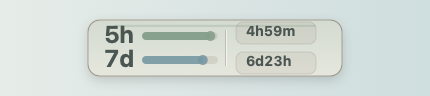
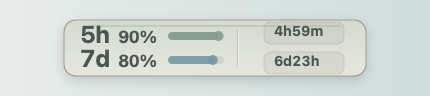
Restore compact menu bar data

diff --git a/native/CodexGauge.swift b/native/CodexGauge.swift
@@ -1799,12 +1799,12 @@ private final class CodexGaugeApp: NSObject, NSApplicationDelegate {
     private let watchRefreshInterval: TimeInterval = 3 * 60
     private let criticalRefreshInterval: TimeInterval = 2 * 60
     private let tenMinuteRefreshInterval: TimeInterval = 10 * 60
-    private let statusItemWidth: CGFloat = 104
-    private let statusImageSize = NSSize(width: 98, height: 22)
-    private let menuBarUsagePercentRect = NSRect(x: 6, y: 3, width: 46, height: 16)
-    private let menuBarRefreshCountdownRect = NSRect(x: 58, y: 2.2, width: 34, height: 17.6)
+    private let statusItemWidth: CGFloat = 116
+    private let statusImageSize = NSSize(width: 110, height: 22)
+    private let menuBarUsagePercentRect = NSRect(x: 5, y: 3, width: 58, height: 16)
+    private let menuBarRefreshCountdownRect = NSRect(x: 68, y: 2.2, width: 36, height: 17.6)
     private let signalPopoverSize = NSSize(width: 560, height: 560)
-    private let quotaRailWidth: CGFloat = 30
+    private let quotaRailWidth: CGFloat = 21
     private let signalRailSegments = 10
     private let codexCliBundlePath = "/Applications/Codex.app/Contents/Resources/codex"
     private let normalQuotaColor = NSColor(calibratedRed: 0.58, green: 1.00, blue: 0.89, alpha: 0.95)
@@ -3730,7 +3730,7 @@ private final class CodexGaugeApp: NSObject, NSApplicationDelegate {
 
     private func drawMenuBarChrome(source: String?, nonLiveMode: Bool, palette: GaugePalette) {
         drawMenuBarMinimalMorandiPill(source: source, nonLiveMode: nonLiveMode, palette: palette)
-        for x in [54] as [CGFloat] {
+        for x in [64] as [CGFloat] {
             drawMenuBarMorandiDivider(x: x, palette: palette)
         }
     }
@@ -3904,8 +3904,22 @@ private final class CodexGaugeApp: NSObject, NSApplicationDelegate {
         ]
         (window as NSString).draw(at: NSPoint(x: menuBarUsagePercentRect.minX, y: y - 3.0), withAttributes: windowAttrs)
 
-        let railRect = NSRect(x: menuBarUsagePercentRect.minX + 15, y: y, width: quotaRailWidth, height: 3.4)
+        let percentText = compactMenuBarPercentText(value)
+        let valueAttrs: [NSAttributedString.Key: Any] = [
+            .font: NSFont.monospacedDigitSystemFont(ofSize: percentText.count > 2 ? 5.0 : 5.5, weight: .bold),
+            .foregroundColor: value == nil ? palette.mutedText : palette.primaryText,
+        ]
+        (percentText as NSString).draw(at: NSPoint(x: menuBarUsagePercentRect.minX + 16, y: y - 2.6), withAttributes: valueAttrs)
+
+        let railRect = NSRect(x: menuBarUsagePercentRect.minX + 37, y: y, width: quotaRailWidth, height: 3.4)
         drawMenuBarUsagePercentBar(value: value, rect: railRect, palette: palette, fillColor: menuBarQuotaColor(value, palette: palette))
+    }
+
+    private func compactMenuBarPercentText(_ value: Int?) -> String {
+        guard let value else {
+            return "--"
+        }
+        return "\(max(0, min(100, value)))%"
     }
 
     private func drawMenuBarUsagePercentBar(value: Int?, rect: NSRect, palette: GaugePalette, fillColor: NSColor) {

diff --git a/script/generate_public_assets.swift b/script/generate_public_assets.swift
@@ -207,7 +207,7 @@ func writeMenuBarPNG(_ path: String) throws {
         NSColor(calibratedRed: 0.77, green: 0.84, blue: 0.84, alpha: 1.0),
     ])?.draw(in: NSBezierPath(rect: NSRect(origin: .zero, size: menuBarSize)), angle: 0)
 
-    let strip = NSRect(x: 88, y: 20, width: 254, height: 56)
+    let strip = NSRect(x: 64, y: 20, width: 302, height: 56)
     let shadow = NSShadow()
     shadow.shadowColor = NSColor.black.withAlphaComponent(0.16)
     shadow.shadowBlurRadius = 12
@@ -229,17 +229,19 @@ func writeMenuBarPNG(_ path: String) throws {
     sage.withAlphaComponent(0.28).setFill()
     topRail.fill()
 
-    for x in [strip.minX + 138] as [CGFloat] {
+    for x in [strip.minX + 174] as [CGFloat] {
         drawMenuBarMorandiDivider(x, in: strip, line: line)
     }
 
     menuBarText("5h", at: NSPoint(x: strip.minX + 16, y: 48), size: 24, weight: .bold, color: ink, mono: true)
     menuBarText("7d", at: NSPoint(x: strip.minX + 16, y: 24), size: 24, weight: .bold, color: ink, mono: true)
-    drawMenuBarUsagePercentBar(value: 0.90, rect: NSRect(x: strip.minX + 54, y: 56, width: 76, height: 8), fill: sage, track: line.withAlphaComponent(0.20))
-    drawMenuBarUsagePercentBar(value: 0.80, rect: NSRect(x: strip.minX + 54, y: 32, width: 76, height: 8), fill: mist.withAlphaComponent(0.88), track: line.withAlphaComponent(0.20))
+    menuBarText("90%", at: NSPoint(x: strip.minX + 54, y: 49), size: 17, weight: .bold, color: ink, mono: true)
+    menuBarText("80%", at: NSPoint(x: strip.minX + 54, y: 25), size: 17, weight: .bold, color: ink, mono: true)
+    drawMenuBarUsagePercentBar(value: 0.90, rect: NSRect(x: strip.minX + 104, y: 56, width: 56, height: 8), fill: sage, track: line.withAlphaComponent(0.20))
+    drawMenuBarUsagePercentBar(value: 0.80, rect: NSRect(x: strip.minX + 104, y: 32, width: 56, height: 8), fill: mist.withAlphaComponent(0.88), track: line.withAlphaComponent(0.20))
 
     drawMenuBarRefreshCountdown(
-        in: NSRect(x: strip.minX + 142, y: 23, width: 92, height: 50),
+        in: NSRect(x: strip.minX + 194, y: 23, width: 92, height: 50),
         ink: ink,
         fill: taupe.withAlphaComponent(0.13),
         stroke: taupe.withAlphaComponent(0.28)

diff --git a/tests/test_signal_console_ux.py b/tests/test_signal_console_ux.py
@@ -56,14 +56,15 @@ class SignalConsoleUXTests(unittest.TestCase):
         usage_row_body = swift_function_body(source, "private func drawMenuBarUsagePercentRow(")
 
         for token in [
-            "statusItemWidth: CGFloat = 104",
-            "statusImageSize = NSSize(width: 98, height: 22)",
-            "menuBarUsagePercentRect = NSRect(x: 6, y: 3, width: 46, height: 16)",
-            "menuBarRefreshCountdownRect = NSRect(x: 58, y: 2.2, width: 34, height: 17.6)",
-            "for x in [54] as [CGFloat]",
+            "statusItemWidth: CGFloat = 116",
+            "statusImageSize = NSSize(width: 110, height: 22)",
+            "menuBarUsagePercentRect = NSRect(x: 5, y: 3, width: 58, height: 16)",
+            "menuBarRefreshCountdownRect = NSRect(x: 68, y: 2.2, width: 36, height: 17.6)",
+            "for x in [64] as [CGFloat]",
             "drawMenuBarMinimalMorandiPill",
             "drawMenuBarUsagePercentBars",
             "drawMenuBarCountdownPill",
+            "compactMenuBarPercentText",
             "morandiMenuBarSage",
             "morandiMenuBarMist",
             "morandiMenuBarClay",
@@ -73,7 +74,8 @@ class SignalConsoleUXTests(unittest.TestCase):
         self.assertIn("drawPlanBGauge(", make_status_body)
         self.assertIn("drawMenuBarCountdownPill(text: fiveHourText", countdown_body)
         self.assertIn("drawMenuBarCountdownPill(text: sevenDayText", countdown_body)
-        self.assertNotIn("percentText", usage_row_body)
+        self.assertIn("compactMenuBarPercentText(value)", usage_row_body)
+        self.assertIn("percentText as NSString", usage_row_body)
         self.assertNotIn("drawMenuBarHardwareSignals", source)
         self.assertNotIn("drawMenuBarSSDTemperature", source)
         self.assertNotIn("drawMenuBarSystemMetricStrip", source)

diff --git a/tests/test_public_readme_package.py b/tests/test_public_readme_package.py
@@ -50,7 +50,7 @@ class PublicReadmePackageTests(unittest.TestCase):
 
         for phrase in [
             "Stop guessing how much Codex you have left.",
-            "Codex Gauge puts your 5-hour and 7-day usage bars directly in the macOS menu bar",
+            "Codex Gauge puts your 5-hour and 7-day usage percentages, usage bars, and reset countdowns directly in the macOS menu bar",
             "Open Codex once, keep Codex Gauge running, and the menu bar refreshes hands-free.",
             "No browser cookies. No `~/.codex/auth.json`. No prompt or response logging.",
             "Install from source with one command:",
@@ -70,7 +70,7 @@ class PublicReadmePackageTests(unittest.TestCase):
         for phrase in [
             "Codex Gauge 是一个**非官方** macOS 菜单栏工具",
             "它可以直接显示 Codex 5 小时剩余额度和 Codex 7 天剩余额度",
-            "菜单栏紧凑显示 Codex 5 小时和 7 天使用百分比条",
+            "菜单栏紧凑显示 Codex 5 小时和 7 天使用百分比、使用条",
             "下拉菜单显示额度重置时间和上次刷新时间",
             "紧凑菜单栏仪表使用极简 Morandi 设计",
             "重置倒计时胶囊",

diff --git a/tests/test_native_codex_only.py b/tests/test_native_codex_only.py
@@ -91,11 +91,11 @@ class NativeCodexOnlyTests(unittest.TestCase):
     def test_native_app_draws_codex_usage_and_refresh_status_image(self):
         source = pathlib.Path("native/CodexGauge.swift").read_text()
 
-        self.assertIn("statusItemWidth: CGFloat = 104", source)
-        self.assertIn("statusImageSize = NSSize(width: 98, height: 22)", source)
+        self.assertIn("statusItemWidth: CGFloat = 116", source)
+        self.assertIn("statusImageSize = NSSize(width: 110, height: 22)", source)
         self.assertIn("menuBarUsagePercentRect", source)
         self.assertIn("menuBarRefreshCountdownRect", source)
-        self.assertIn("quotaRailWidth: CGFloat = 30", source)
+        self.assertIn("quotaRailWidth: CGFloat = 21", source)
         self.assertIn("makeStatusImage", source)
         self.assertIn("fiveHourReset: status.fiveHourReset", source)
         self.assertIn("sevenDayReset: status.sevenDayReset", source)

diff --git a/README.md b/README.md
@@ -7,15 +7,15 @@
 
 ![Codex Gauge rendered GitHub hero with Morandi menu bar quota bars](docs/assets/codex-gauge-github-hero.png)
 
-_Rendered public image with static sample values. The installed app renders your live Codex usage bars and reset countdowns._
+_Rendered public image with static sample values. The installed app renders your live Codex usage percentages, usage bars, and reset countdowns._
 
 **A calm, safe macOS menu bar app to check Codex usage: 5-hour and 7-day quota, live reset countdowns, and no browser-cookie reads.**
 
 Stop guessing how much Codex you have left.
 
-Codex Gauge puts your 5-hour and 7-day usage bars directly in the macOS menu bar, with reset countdowns that keep moving and a compact Signal Console when you need exact percentages.
+Codex Gauge puts your 5-hour and 7-day usage percentages, usage bars, and reset countdowns directly in the macOS menu bar, with a compact Signal Console when you need more detail.
 
-Codex Gauge 会把 Codex 5 小时和 7 天使用百分比条、重置倒计时和数据来源直接放进 macOS 菜单栏；需要精确百分比时，点开 Signal Console 就能看到完整状态。
+Codex Gauge 会把 Codex 5 小时和 7 天使用百分比、使用条、重置倒计时和数据来源直接放进 macOS 菜单栏；需要更多细节时，点开 Signal Console 就能看到完整状态。
 
 Open Codex once, keep Codex Gauge running, and the menu bar refreshes hands-free.
 
@@ -57,8 +57,8 @@ _Menu bar strip render. Static sample values; live values update in the installe
 
 ## What You Get
 
-- Compact menu bar gauge for Codex 5-hour and 7-day usage bars plus refresh countdowns
-  菜单栏紧凑显示 Codex 5 小时和 7 天使用百分比条，以及刷新倒计时
+- Compact menu bar gauge for Codex 5-hour and 7-day usage percentages, usage bars, and refresh countdowns
+  菜单栏紧凑显示 Codex 5 小时和 7 天使用百分比、使用条，以及刷新倒计时
 - Morandi percentage bars keep quota health readable without turning the menu bar into a large widget
   Morandi 色系百分比条让菜单栏里的额度健康状态更直观，同时不会变成很占位置的大组件
 - Custom Signal Console popover with status, quota, reset timing, trend, doctor checks, diagnostics, and actions
@@ -96,9 +96,9 @@ _Menu bar strip render. Static sample values; live values update in the installe
 
 ![Codex Gauge Signal Console](docs/assets/codex-gauge-signal-console.png)
 
-This is an actual app-rendered Signal Console screenshot generated from the native macOS view. It uses static sample quota values for the README, not live account data; the installed app keeps usage bars and reset countdowns in the menu bar, with exact Codex percentages in the popover.
+This is an actual app-rendered Signal Console screenshot generated from the native macOS view. It uses static sample quota values for the README, not live account data; the installed app keeps usage percentages, usage bars, and reset countdowns in the menu bar, with fuller Codex detail in the popover.
 
-上面的 Signal Console 截图由真实 macOS 原生界面渲染生成，但使用 README 静态示例额度数值，不是实时账户数据；安装后的 App 会把使用百分比条和重置倒计时放在菜单栏，并在弹出面板里显示精确百分比和更完整的 Codex 细节。
+上面的 Signal Console 截图由真实 macOS 原生界面渲染生成，但使用 README 静态示例额度数值，不是实时账户数据；安装后的 App 会把使用百分比、使用条和重置倒计时放在菜单栏，并在弹出面板里显示更完整的 Codex 细节。
 
 ## Compact menu bar
 
